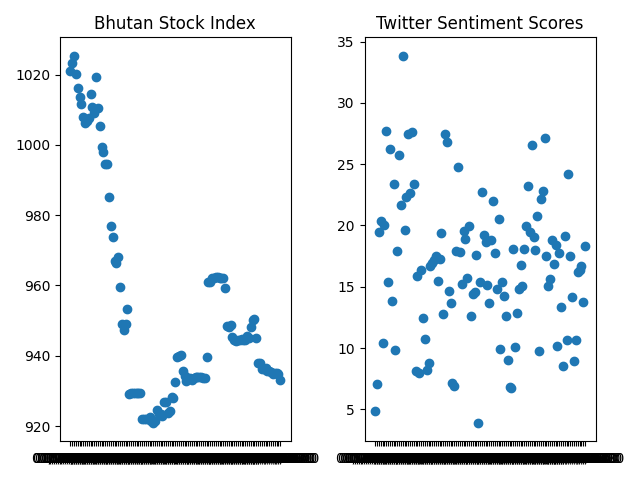
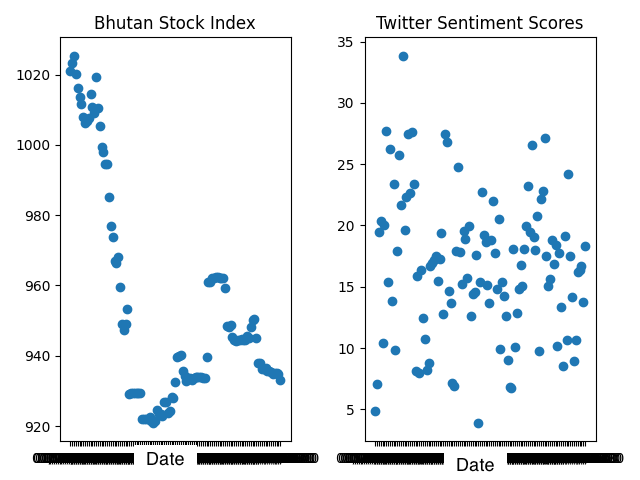
style: changed polyregression
used numpy instead of sklearn and also added labels on diagram

Changed region(s): [[0.6875, 0.9375, 0.8125, 1.0], [0.1875, 0.9062, 0.3125, 0.9688]]

diff --git a/run.py b/run.py
@@ -5,6 +5,10 @@ from sklearn.linear_model import LinearRegression
 from sklearn.preprocessing import PolynomialFeatures
 from sklearn.metrics import r2_score
 
+# 0.10903663203657565
+# intercept : 981.1283168841768
+# RSquared: 0.10649850846079478
+# Slope: [-4.89247228  0.17362076]
 def create_matching_sets(stockIndex, twitterSentiments):
     """
     Function to be able to create a DataFrame having the BSI and twitterSentiments
